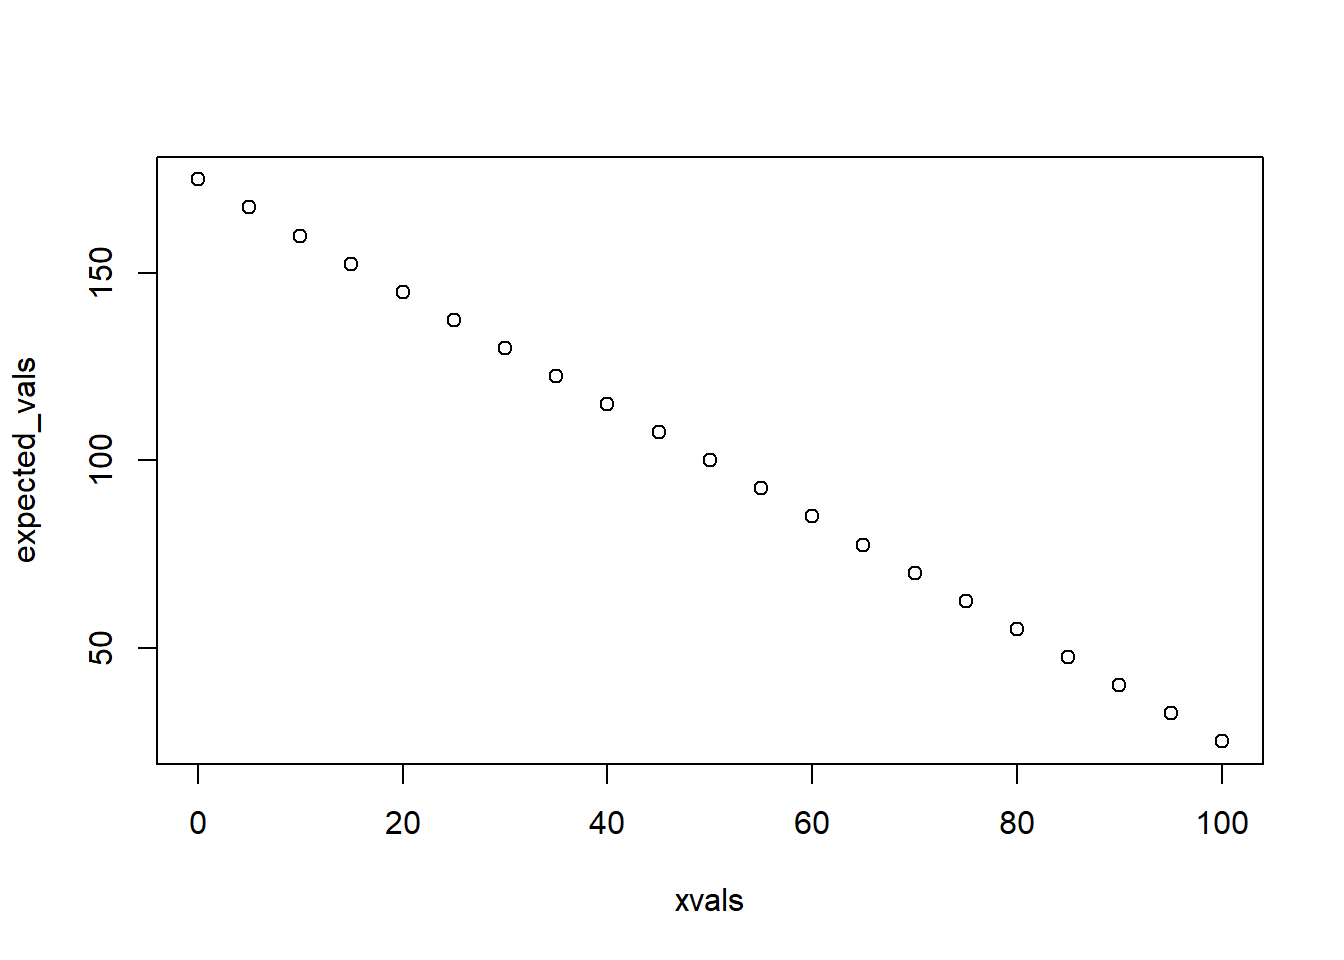
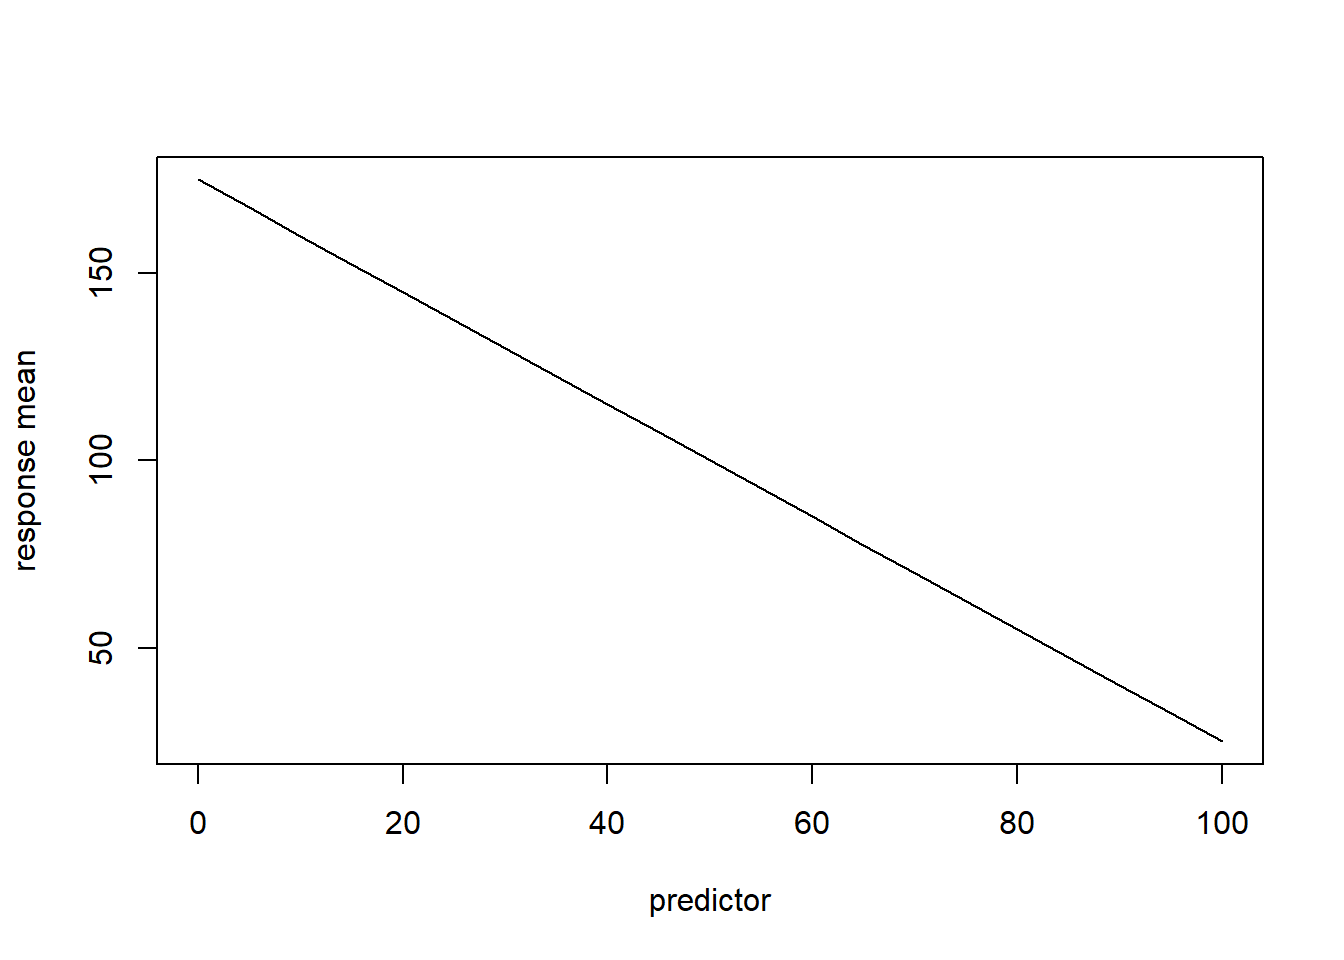
minor

diff --git a/LECTURE3.html b/LECTURE3.html
@@ -503,8 +503,8 @@ independent variable) values to an expected response <span
 class="math inline">\(\mu\)</span>. It is deterministic because the
 answer will be the same every time, given any specific input (covariate)
 value(s):</p>
-<p><span class="math display">\[\hat{\mu}_i = \alpha +\mathbf{x^T_i}
-\mathbf{\beta}\]</span></p>
+<p><span class="math display">\[\hat{\mu}_i = \alpha +\mathbf{x}_i \cdot
+\mathbf{\vec\beta}\]</span></p>
 <p>OR, for the univariate case:</p>
 <p><span class="math display">\[\hat{\mu}_i = \alpha + \beta
 x_i\]</span></p>
@@ -528,7 +528,7 @@ expected_vals &lt;- deterministic_component(xvals,175,-1.5)   # use the determin
 expected_vals</code></pre>
 <pre><code>##  [1] 175.0 167.5 160.0 152.5 145.0 137.5 130.0 122.5 115.0 107.5 100.0  92.5
 ## [13]  85.0  77.5  70.0  62.5  55.0  47.5  40.0  32.5  25.0</code></pre>
-<pre class="r"><code>plot(xvals,expected_vals)   # plot out the relationship</code></pre>
+<pre class="r"><code>plot(xvals,expected_vals,ylab=&quot;response mean&quot;, xlab=&quot;predictor&quot;, type=&quot;l&quot;)   # plot out the relationship</code></pre>
 <p><img src="LECTURE3_files/figure-html/unnamed-chunk-4-1.png" width="672" /></p>
 <pre class="r"><code># plot(xvals,expected_vals,type=&quot;l&quot;)    # alternatively, plot as a line</code></pre>
 <p>Now, let’s look at the <strong>stochastic component</strong> (also
@@ -542,11 +542,10 @@ regression:</p>
 \epsilon_i\]</span> <span class="math display">\[\epsilon_i \sim
 Normal(0,\sigma_{\epsilon})\]</span></p>
 <p>We can consider the deterministic component as representing the
-<strong>mean</strong> of the response for any given set of
-covariates/attributes of the observation unit i.</p>
+expected (mean) response value given the covariate vector for unit
+i.</p>
 <p>Since a normal distribution is fully defined by its mean and
-variance, this is all we need to generate data from the linear
-regression model (it is fully specified!).</p>
+variance, this is is now a fully specified model.</p>
 <pre class="r"><code>## Stochastic component -------------------------------------------- 
 ##    define a function for transforming an expected (deterministic) response and adding a layer of &quot;noise&quot; on top!
 
